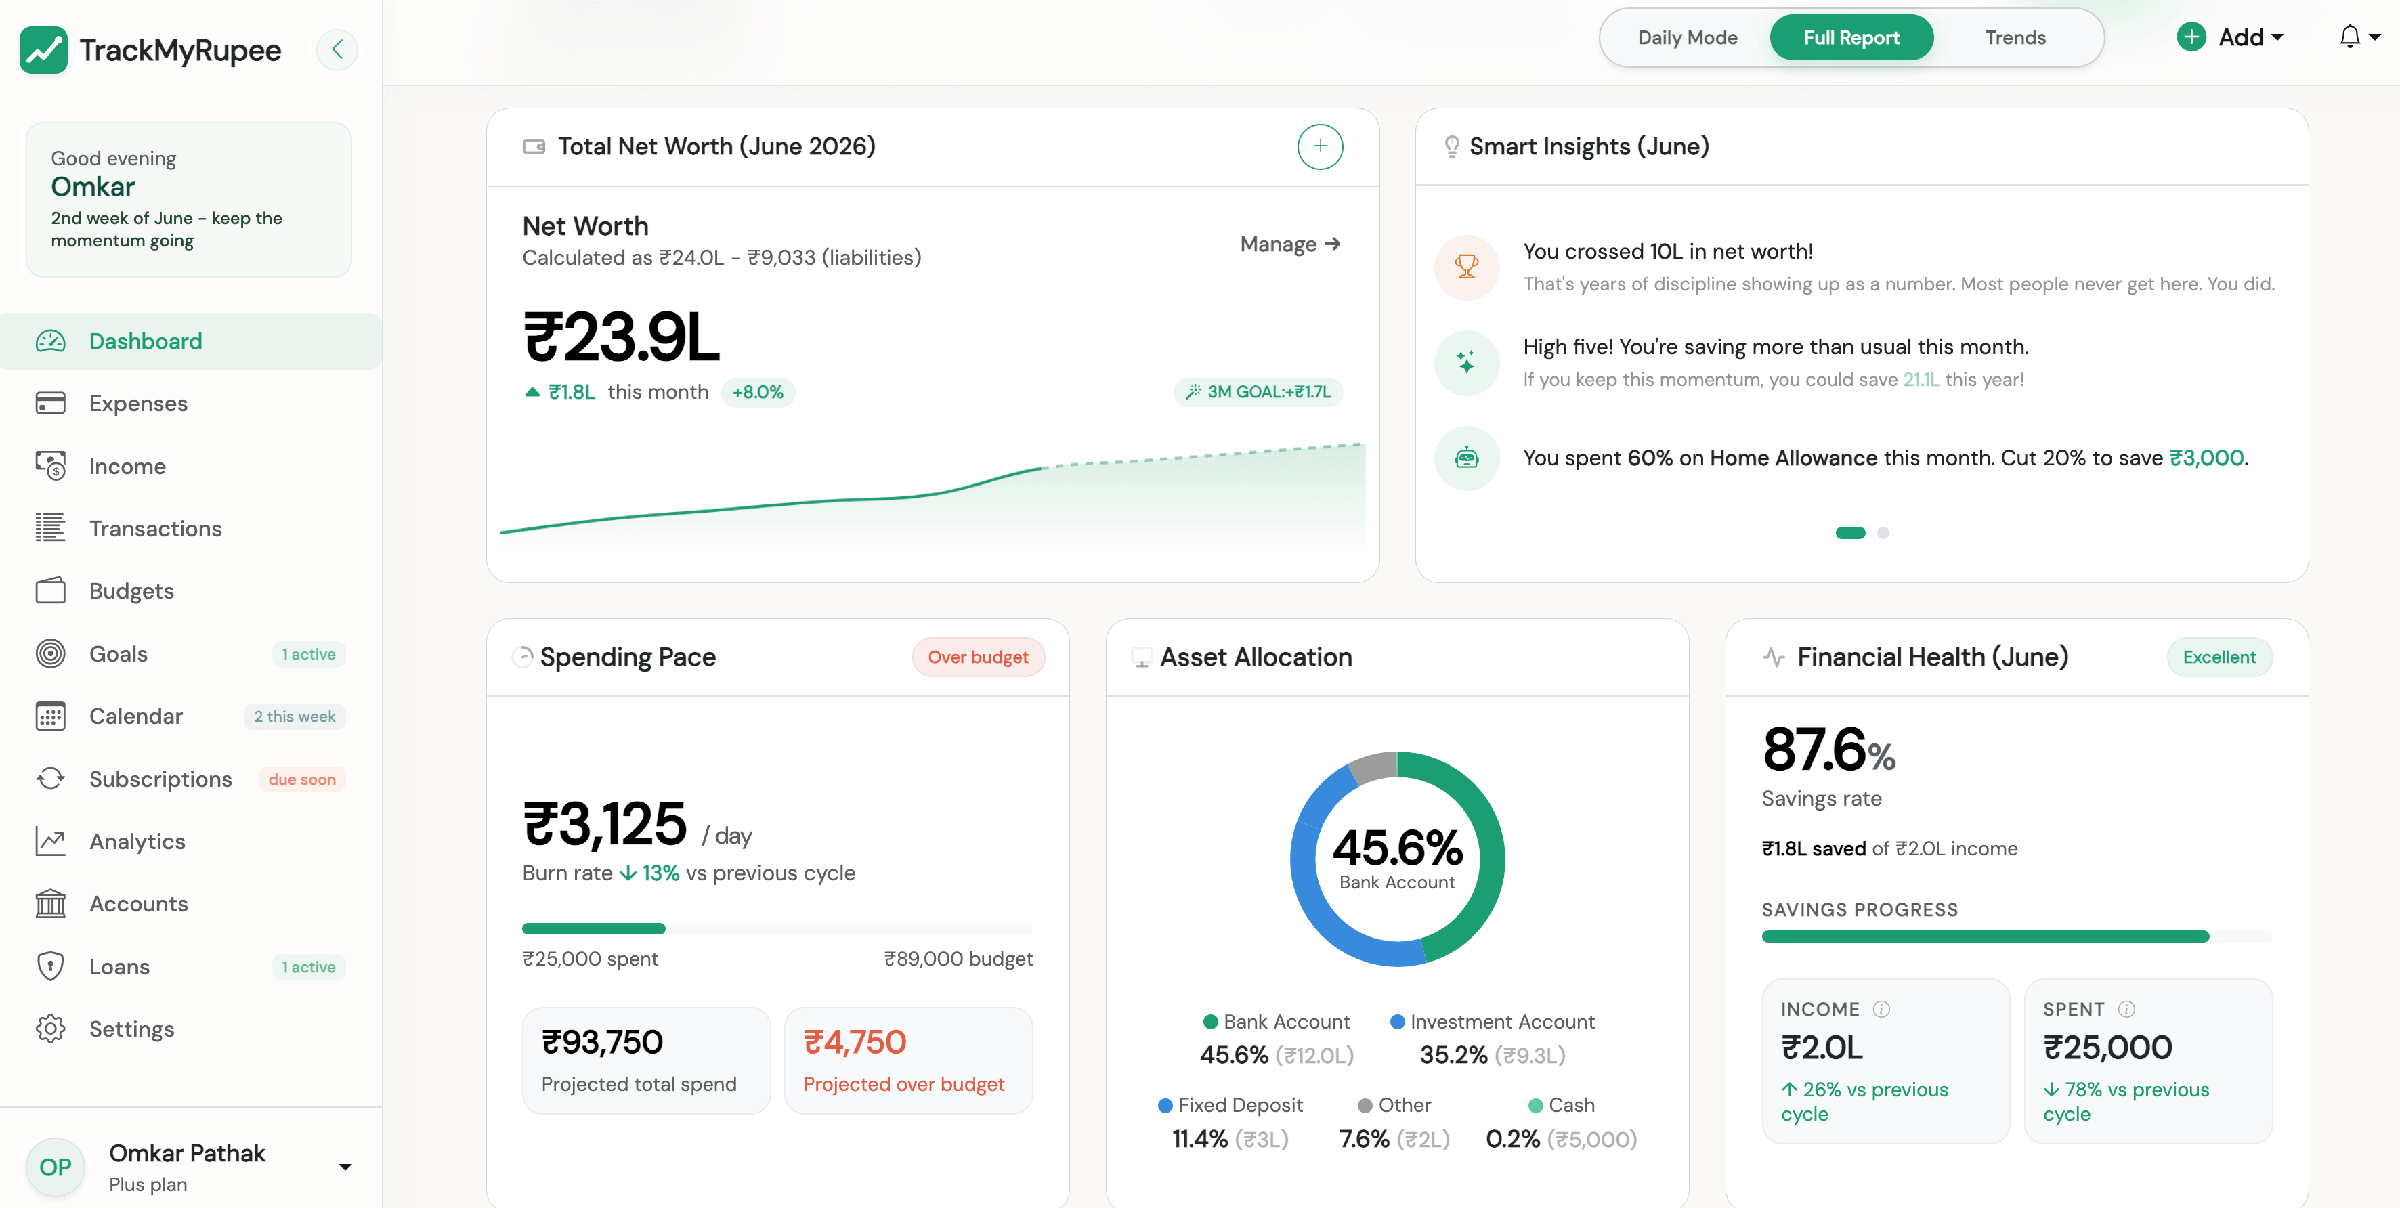
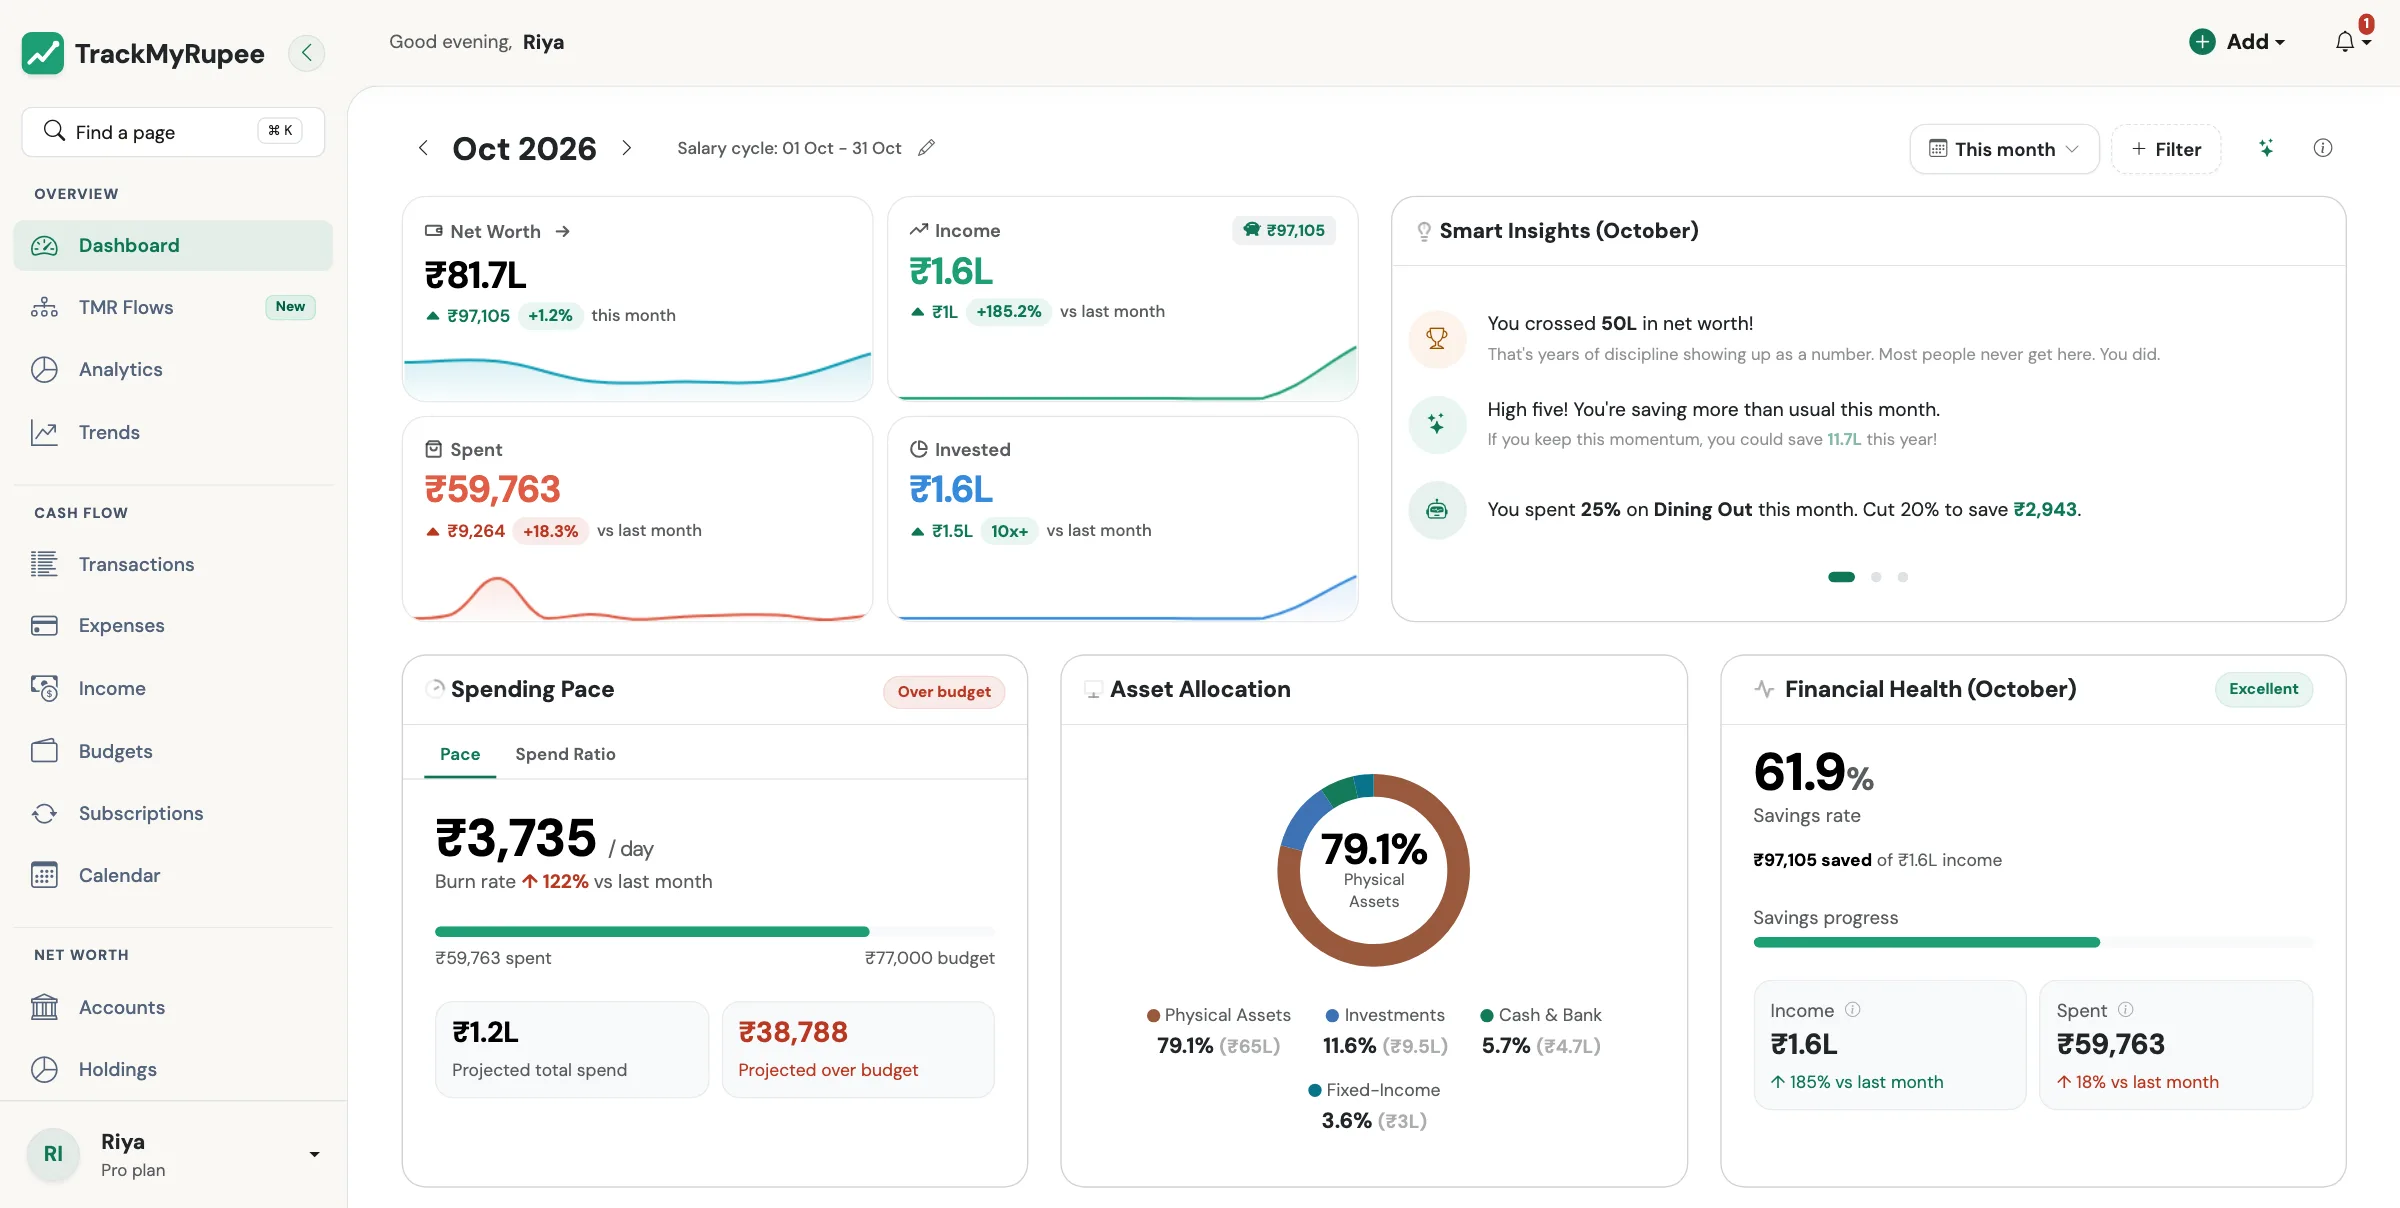
feat: announcement modal once per app session, new landing/README hero screenshot (webp)

diff --git a/templates/base.html b/templates/base.html
@@ -2781,7 +2781,7 @@
             <div class="modal-footer announcement-modal-footer p-3 px-4 justify-content-end gap-2 border-0">
                 <button type="button" class="btn btn-outline-secondary rounded-3 px-4 fw-medium" data-bs-dismiss="modal" onclick="dismissAnnouncement('{{ active_announcement.id }}')">Dismiss</button>
                 {% if active_announcement.cta_link %}
-                    <a href="{{ active_announcement.cta_link }}" class="btn btn-success rounded-3 px-4 fw-semibold d-inline-flex align-items-center gap-1">
+                    <a href="{{ active_announcement.cta_link }}" onclick="dismissAnnouncement('{{ active_announcement.id }}')" class="btn btn-success rounded-3 px-4 fw-semibold d-inline-flex align-items-center gap-1">
                         <span>{{ active_announcement.cta_text|default:"Try it now" }}</span>
                         <i class="bi bi-arrow-right"></i>
                     </a>
@@ -2801,10 +2801,14 @@
         const announcementId = '{{ active_announcement.id }}';
         if (!announcementId) return;
 
-        if (localStorage.getItem('dismissed_announcement_' + announcementId)) {
-            console.log('[TrackMyRupee Announcement] Modal skipped because announcement ID ' + announcementId + ' was previously dismissed in local storage.');
-            return;
-        }
+        // Show once per app session (a login, a fresh tab, or opening the PWA), not on every page:
+        // sessionStorage is per tab/window and is empty on each of those. Dismiss, or following the
+        // button, hides it for good.
+        try {
+            if (localStorage.getItem('dismissed_announcement_' + announcementId)) return;
+            if (sessionStorage.getItem('announcement_seen_' + announcementId)) return;
+            sessionStorage.setItem('announcement_seen_' + announcementId, '1');
+        } catch (e) {}
 
         const modalEl = document.getElementById('announcementModal');
         if (!modalEl) return;

diff --git a/templates/partials/clear_saved_filters.html b/templates/partials/clear_saved_filters.html
@@ -1,13 +1,13 @@
     <script>
         // Saved list filters belong to whoever was signed in: drop them on a signed-out page and whenever the
-        // signed-in person changes, so the next user (or the next login) starts from a clean list.
+        // signed-in person changes, so the next user (or the next login) starts from a clean list and sees the announcement again.
         (function () {
             try {
                 var uid = "{{ user.id|default:'' }}";
                 var wipe = function (store) {
                     for (var i = store.length - 1; i >= 0; i--) {
                         var key = store.key(i);
-                        if (key && key.indexOf('tmr_filters:') === 0) store.removeItem(key);
+                        if (key && (key.indexOf('tmr_filters:') === 0 || key.indexOf('announcement_seen_') === 0)) store.removeItem(key);
                     }
                 };
                 var owner = sessionStorage.getItem('tmr_filters_owner');

diff --git a/templates/landing.html b/templates/landing.html
@@ -1592,10 +1592,7 @@
     <div class="hero-visual-wrapper">
         <div class="hero-mockups">
             <div class="desktop-mockup">
-                <picture>
-                    <source srcset="{% static 'img/desktop.webp' %}" type="image/webp">
-                    <img src="{% static 'img/desktop.png' %}" alt="TrackMyRupee Desktop Dashboard" class="img-fluid w-100" loading="eager" width="800" height="402">
-                </picture>
+                <img src="{% static 'img/desktop.webp' %}" alt="TrackMyRupee Desktop Dashboard" class="img-fluid w-100" loading="eager" width="800" height="402">
             </div>
             <div class="mobile-mockup">
                 <picture>

diff --git a/expenses/tests/test_cron_and_announcements.py b/expenses/tests/test_cron_and_announcements.py
@@ -291,3 +291,21 @@ class FeatureAnnouncementTests(TestCase):
         self.assertContains(response, "Active")
 
 
+
+
+class AnnouncementShownOncePerSessionTests(TestCase):
+    def test_modal_script_is_guarded_by_session_storage_and_cta_dismisses(self):
+        from django.contrib.auth import get_user_model
+        from django.core.cache import cache
+
+        from expenses.models import Announcement
+        cache.clear()
+        user = get_user_model().objects.create_user('ann_once', 'ann_once@example.com', 'pw12345!x')
+        profile = user.profile
+        profile.has_seen_tutorial = profile.consent_granted = True
+        profile.save()
+        ann = Announcement.objects.create(title='New', body='Hi', show_modal=True, cta_link='/flows/')
+        self.client.force_login(user)
+        html = self.client.get('/dashboard/').content.decode()
+        self.assertIn(f"announcement_seen_' + announcementId", html)
+        self.assertIn(f"onclick=\"dismissAnnouncement('{ann.id}')\" class=\"btn btn-success", html)

diff --git a/README.md b/README.md
@@ -31,7 +31,7 @@ Stop being the product. Most "free" finance apps profit by selling your spending
 - **🌍 Global Ready**: Multi-currency support with live exchange rates and interfaces in English, Hindi and Marathi.
 - **🛡 Your Data, Your Control**: Export your entire history anytime, or self-host. Deleting your account removes your data from the live database; see the Privacy Policy for backups and payment records.
 
-![Budget Dashboard: TrackMyRupee](static/img/desktop.png)
+![Dashboard: TrackMyRupee](static/img/desktop.webp)
 
 ---
 
